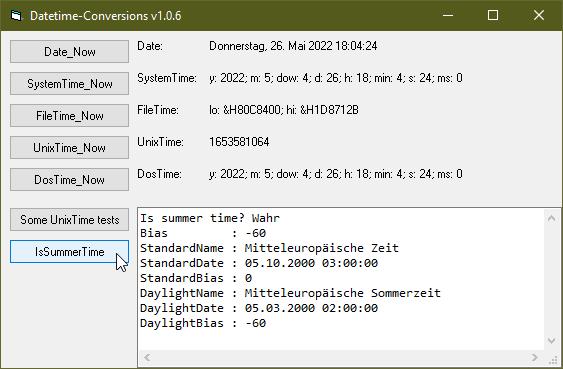
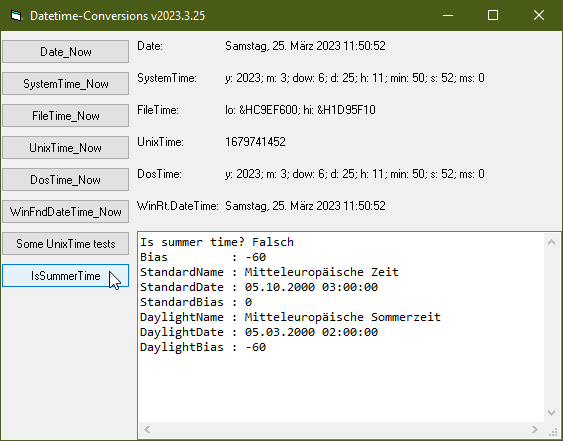
update readme, version and png

diff --git a/README.md b/README.md
@@ -1,10 +1,10 @@
-# Date_TimeConversion
-## Converts between Date, SystemTime, FileTime, UnixTime  
+# Date_TimeConversion  
+## Converts between Date, SystemTime, FileTime, UnixTime, DosTime, WindowsFoundationDateTime  
 
 [![GitHub](https://img.shields.io/github/license/OlimilO1402/Date_TimeConversion?style=plastic)](https://github.com/OlimilO1402/Date_TimeConversion/blob/master/LICENSE) 
 [![GitHub release (latest by date)](https://img.shields.io/github/v/release/OlimilO1402/Date_TimeConversion?style=plastic)](https://github.com/OlimilO1402/Date_TimeConversion/releases/latest)
-[![Github All Releases](https://img.shields.io/github/downloads/OlimilO1402/Date_TimeConversion/total.svg)](https://github.com/OlimilO1402/Date_TimeConversion/releases/download/v1.0.6/TimeConv_v1.0.6.zip)
-[![Follow](https://img.shields.io/github/followers/OlimilO1402.svg?style=social&label=Follow&maxAge=2592000)](https://github.com/OlimilO1402/Date_TimeConversion/watchers)
+[![Github All Releases](https://img.shields.io/github/downloads/OlimilO1402/Date_TimeConversion/total.svg)](https://github.com/OlimilO1402/Date_TimeConversion/releases/download/v2023.3.25/TimeConv_v2023.3.25.zip)
+![GitHub followers](https://img.shields.io/github/followers/OlimilO1402?style=social)
 
 project started in jan.2021  
 
